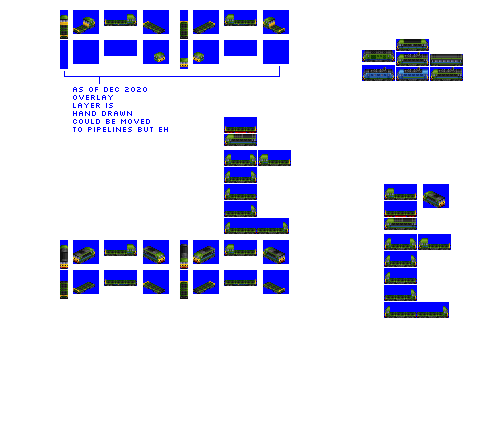
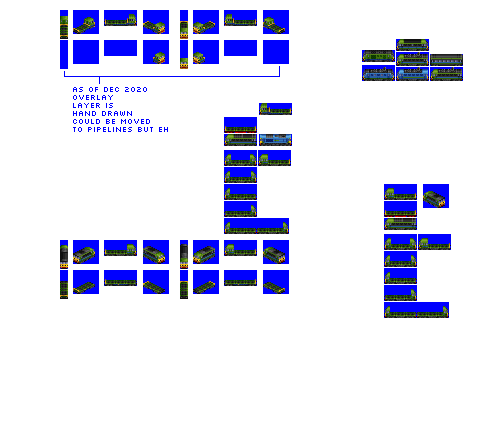
Change: sprites and containers complete for Cargo Sprinter

diff --git a/src/spritelayer_cargos/intermodal_containers.py b/src/spritelayer_cargos/intermodal_containers.py
@@ -191,8 +191,30 @@ class IntermodalCargoSprinter32pxStandard(IntermodalBaseCargoSprinter):
         super().__init__(**kwargs)
         self.length = 32
         container_20_foot = kwargs.get("container_subtype") + "_20_foot"
+        container_40_foot = kwargs.get("container_subtype") + "_40_foot"
         self.variants = [
             [container_20_foot, container_20_foot],
+            [container_40_foot],
+        ]
+
+
+class IntermodalCargoSprinter32px20FootOnly(IntermodalBaseCargoSprinter):
+    def __init__(self, **kwargs):
+        super().__init__(**kwargs)
+        self.length = 32
+        container_20_foot = kwargs.get("container_subtype") + "_20_foot"
+        self.variants = [
+            [container_20_foot, container_20_foot],
+        ]
+
+
+class IntermodalCargoSprinter32px40FootOnly(IntermodalBaseCargoSprinter):
+    def __init__(self, **kwargs):
+        super().__init__(**kwargs)
+        self.length = 32
+        container_40_foot = kwargs.get("container_subtype") + "_40_foot"
+        self.variants = [
+            [container_40_foot],
         ]
 
 
@@ -202,19 +224,11 @@ class IntermodalCargoSprinter32pxBox(IntermodalBaseCargoSprinter):
         self.length = 32
         self.variants = [
             ["box_DFLT_20_foot_1CC", "box_DFLT_20_foot_1CC"],
-            # ["box_DFLT_20_foot_1CC", "box_DFLT_20_foot_1CC", "box_DFLT_20_foot_red"],
-            # ["box_DFLT_20_foot_red", "box_DFLT_20_foot_red", "box_DFLT_20_foot_red"],
-            # ["box_DFLT_20_foot_2CC", "box_DFLT_20_foot_2CC", "box_DFLT_20_foot_2CC"],
-            # ["box_DFLT_20_foot_1CC", "box_DFLT_20_foot_1CC", "box_DFLT_20_foot_1CC"],
-            # ["box_DFLT_20_foot_2CC", "box_DFLT_20_foot_1CC", "box_DFLT_20_foot_1CC"],
-            # ["box_DFLT_20_foot_1CC", "box_DFLT_20_foot_2CC", "box_DFLT_20_foot_red"],
-            # ["box_DFLT_20_foot_1CC", "box_DFLT_40_foot_1CC"],
-            # ["box_DFLT_20_foot_2CC", "box_DFLT_40_foot_1CC"],
-            # ["box_DFLT_20_foot_red", "box_DFLT_40_foot_red"],
-            # ["box_DFLT_40_foot_1CC", "box_DFLT_20_foot_1CC"],
-            # ["box_DFLT_40_foot_2CC", "box_DFLT_20_foot_2CC"],
-            # ["box_DFLT_40_foot_2CC", "box_DFLT_20_foot_1CC"],
-            # ["box_DFLT_30_foot_1CC", "box_DFLT_30_foot_1CC"],
+            ["box_DFLT_20_foot_1CC", "box_DFLT_20_foot_2CC"],
+            ["box_DFLT_20_foot_1CC", "box_DFLT_20_foot_red"],
+            ["box_DFLT_20_foot_red", "box_DFLT_20_foot_1CC"],
+            ["box_DFLT_40_foot_1CC"],
+            ["box_DFLT_40_foot_red"],
         ]
 
 
@@ -237,61 +251,61 @@ container_type_gestalt_mapping = {
         IntermodalFlatCar16pxStandard,
         IntermodalFlatCar24pxStandard,
         IntermodalFlatCar32pxNo40Foot,  # note special case for 32px
-        IntermodalCargoSprinter32pxBox,  # !!! should be standard?
+        IntermodalCargoSprinter32px20FootOnly,
     ],
     "chemicals_tank": [
         IntermodalFlatCar16pxStandard,
         IntermodalFlatCar24pxStandard,
         IntermodalFlatCar32pxStandard,
-        IntermodalCargoSprinter32pxBox,  # !!! should be standard?
+        IntermodalCargoSprinter32pxStandard,
     ],
     "cryo_tank": [
         IntermodalFlatCar16pxStandard,
         IntermodalFlatCar24pxStandard,
         IntermodalFlatCar32pxStandard,
-        IntermodalCargoSprinter32pxBox,  # !!! should be standard?
+        IntermodalCargoSprinter32pxStandard,
     ],
     "curtain_side": [
         IntermodalFlatCar16pxStandard,
         IntermodalFlatCar24px40FootOnly,  # note special case for 24px
         IntermodalFlatCar32px30FootOnly,  # note special case for 24px
-        IntermodalCargoSprinter32pxBox,  # !!! should be standard?
+        IntermodalCargoSprinter32px40FootOnly,
     ],
     "edibles_tank": [
         IntermodalFlatCar16pxStandard,
         IntermodalFlatCar24pxStandard,
         IntermodalFlatCar32pxStandard,
-        IntermodalCargoSprinter32pxBox,  # !!! should be standard?
+        IntermodalCargoSprinter32pxStandard,
     ],
     "stake_flatrack": [
         IntermodalFlatCar16pxStandard,
         IntermodalFlatCar24px40FootOnly,  # note special case for 24px
         IntermodalFlatCar32px30FootOnly,  # note special case for 24px
-        IntermodalCargoSprinter32pxBox,  # !!! should be standard?
+        IntermodalCargoSprinter32px40FootOnly,
     ],
     "livestock": [
         IntermodalFlatCar16pxStandard,
         IntermodalFlatCar24pxStandard,
         IntermodalFlatCar32pxStandard,
-        IntermodalCargoSprinter32pxBox,  # !!! should be standard?
+        IntermodalCargoSprinter32pxStandard,
     ],
     "reefer": [
         IntermodalFlatCar16pxStandard,
         IntermodalFlatCar24pxStandard,
         IntermodalFlatCar32pxStandard,
-        IntermodalCargoSprinter32pxBox,  # !!! should be standard?
+        IntermodalCargoSprinter32pxStandard,
     ],
     "tank": [
         IntermodalFlatCar16pxStandard,
         IntermodalFlatCar24pxStandard,
         IntermodalFlatCar32pxStandard,
-        IntermodalCargoSprinter32pxBox,  # !!! should be standard?
+        IntermodalCargoSprinter32pxStandard,
     ],
     "wood": [
         IntermodalFlatCar16pxStandard,
         IntermodalFlatCar24px40FootOnly,  # note special case for 24px
         IntermodalFlatCar32px30FootOnly,  # note special case for 24px
-        IntermodalCargoSprinter32pxBox,  # !!! should be standard?
+        IntermodalCargoSprinter32px40FootOnly,
     ],
 }
 

diff --git a/src/gestalt_graphics/pipelines.py b/src/gestalt_graphics/pipelines.py
@@ -577,11 +577,14 @@ class GenerateCompositedVehiclesCargos(Pipeline):
                         )
 
                 # create a mask to place black shadows between adjacent containers
-                combo_check = ["empty" if "empty" in i else "occupied" for i in variant]
+                combo_check = ["empty" if "empty" in container else "occupied" for container in variant]
                 # *vehicles with 3 containers only (32px)*
                 # don't allow combinations of only two adjacent 20 foot containers as it's TMWFTLB to provide the shadow for them
                 # two 20 foot with a gap between are supported
                 # solitary 20 foot containers of any length in any position are not prevented, but look bad (looks like loading didn't finish)
+                # ---
+                # NOTE that the actual shadows are drawn as black pixels in the template
+                # so it's possible to hack them directly in the pixels for specific cases (e.g. cargo sprinter)
                 if len(combo_check) == 3:
                     if combo_check in [
                         ["occupied", "occupied", "empty"],

diff --git a/src/vehicles/cargo_sprinter.py b/src/vehicles/cargo_sprinter.py
@@ -25,7 +25,7 @@ def main(roster_id):
         weight=34,
         spriterow_num=0,
         chassis="4_axle_solid_express_32px",
-        tail_light="railcar_32px_2",
+        tail_light="railcar_32px_4",
     )
 
     consist.description = """"""
